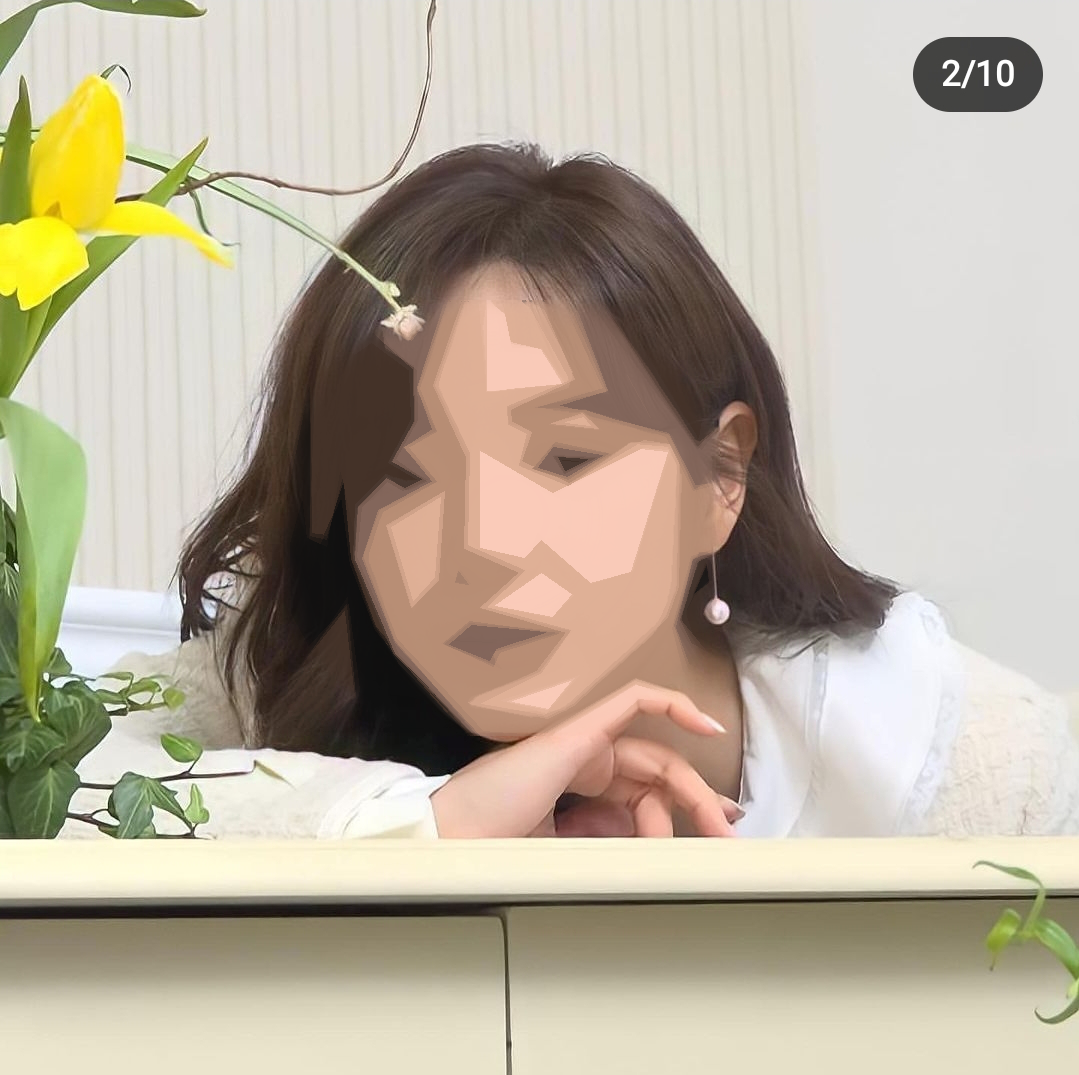
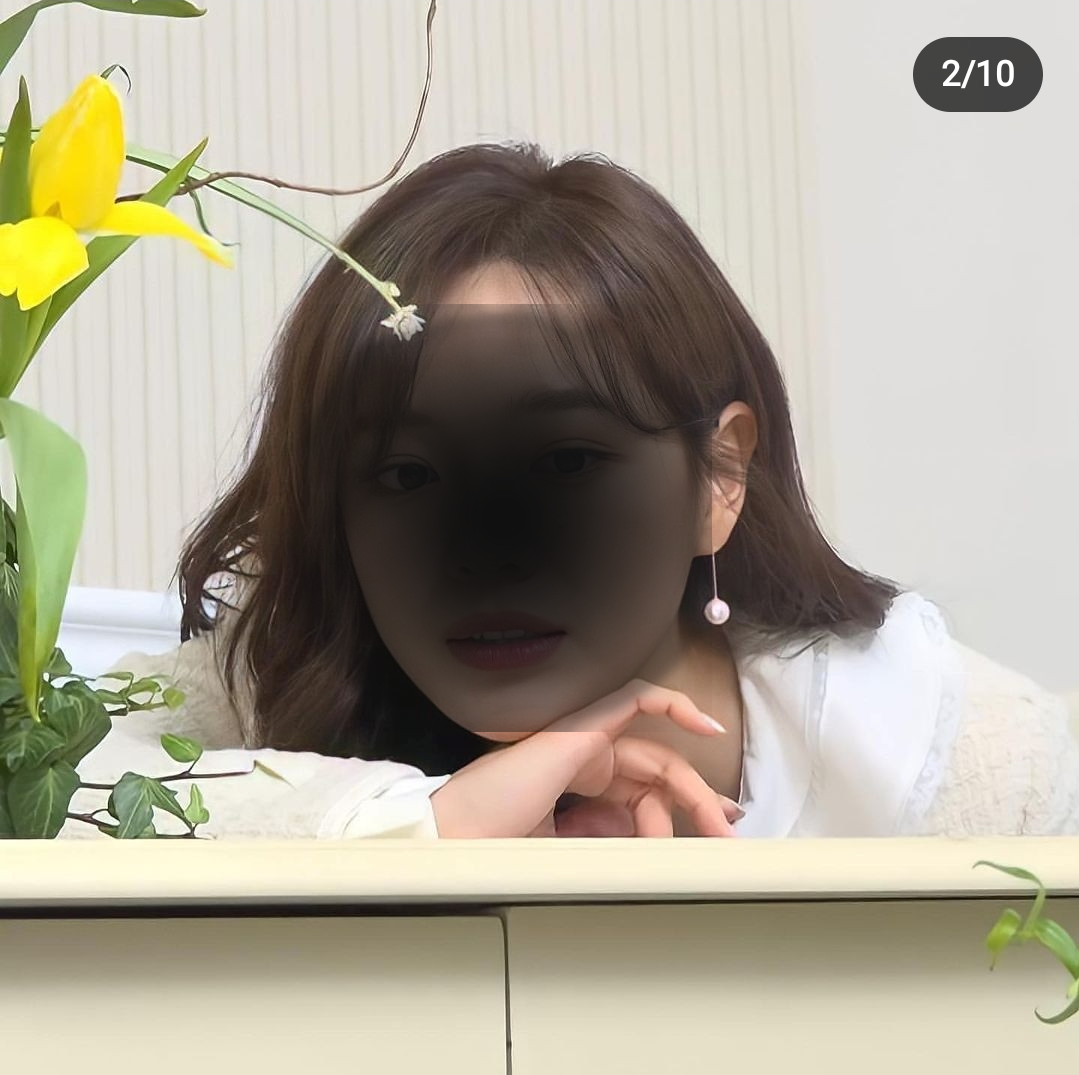
Created desktop application

Changed region(s): [[0.2753, 0.2763, 0.6728, 0.706]]

diff --git a/python_experiments/process_image.py b/python_experiments/process_image.py
@@ -23,9 +23,9 @@ class ImageFilter:
         self.poly_epsilon = poly_epsilon
         self.mask = cv2.imread(mask)
         self.processed_image = None
-        self.thres=thresh
+        self.threshold_factor=thresh
         self.vector_area = np.vectorize(self.area,signature='(n)->()')
-
+        
     def area(self,bb):
         return bb[2]*bb[3]
     
@@ -112,10 +112,9 @@ class ImageFilter:
         images = self.processed_image.copy()
         # show(im)
         faces,images = self.__get_crops(images)
-        threshold= np.max(self.vector_area(faces))/self.thres
+        threshold= np.max(self.vector_area(faces))/self.threshold_factor
         print("Threshold=",threshold)
         for i in tqdm(range(len(images))):
-            print("Area:",faces[i][2]*faces[i][3])
             if(faces[i][2]*faces[i][3] <= threshold):
                 im = images[i]
                 #Blurring
@@ -140,14 +139,13 @@ class ImageFilter:
                 self.processed_image = self.__smooth_blend(canvas,self.processed_image, faces[i])
 
     def process_image_array(self,image):
-        self.processed_image = image
-        images = self.processed_image.copy()
+        outImage = image.copy()
+        images = outImage.copy()
         # show(im)
         faces,images = self.__get_crops(images)
-        threshold= np.max(self.vector_area(faces))/self.thres
+        threshold= np.max(self.vector_area(faces))/self.threshold_factor
         print("Threshold=",threshold)
         for i in tqdm(range(len(images))):
-            print("Area:",faces[i][2]*faces[i][3])
             if(faces[i][2]*faces[i][3] <= threshold):
                 im = images[i]
                 #Blurring
@@ -169,9 +167,10 @@ class ImageFilter:
                     cv2.drawContours(canvas, [approx], -1, rep, -1)
                 
                 canvas = self.__black_inpaint(canvas)
-                self.processed_image = self.__smooth_blend(canvas,self.processed_image, faces[i])
-        return self.processed_image
+                outImage = self.__smooth_blend(canvas,outImage, faces[i])
+        return outImage
 
 if __name__ == "__main__":
     image_fitler = ImageFilter()
     image_fitler.process_image("./original.png")
+    image_fitler.show()

diff --git a/python_experiments/ui_qt.py b/python_experiments/ui_qt.py
@@ -48,7 +48,7 @@ class Ui(QtWidgets.QMainWindow):
         self.sliders = {} 
         self.slider_labels = {} 
         i =0 
-        ranges = {"n_clusters":(1,20,1),'min_area':(5,200,5),'poly_epsilon':(1,25,1),'threshold_factor':(1,7,1)}
+        ranges = {"n_clusters":(1,20,1),'min_area':(5,500,5),'poly_epsilon':(1,25,1),'threshold_factor':(1,7,1)}
         for label in ['n_clusters','min_area','poly_epsilon','threshold_factor']:
             temp_label = QLabel(label)
             self.slider_labels[label] = QLabel('{}'.format(ranges[label][0]))
@@ -63,10 +63,22 @@ class Ui(QtWidgets.QMainWindow):
         del i
         del temp_label
         del ranges
+        
+        
+        self.sliders['n_clusters'].setValue(self.image_filter.n_clusters)
+        self.slider_labels['n_clusters'].setNum(self.image_filter.n_clusters)
         self.sliders['n_clusters'].valueChanged.connect(self.update_clusers)
-        self.image_filter.n_clusters=self.sliders['n_clusters'].value()
+
+        self.sliders['min_area'].setValue(self.image_filter.min_area)
+        self.slider_labels['min_area'].setNum(self.image_filter.min_area)
         self.sliders['min_area'].valueChanged.connect(self.update_min_area)
+        
+        self.sliders['poly_epsilon'].setValue(self.image_filter.poly_epsilon)
+        self.slider_labels['poly_epsilon'].setNum(self.image_filter.poly_epsilon)
         self.sliders['poly_epsilon'].valueChanged.connect(self.update_poly_epsilon)
+
+        self.sliders['threshold_factor'].setValue(self.image_filter.threshold_factor)
+        self.slider_labels['threshold_factor'].setNum(self.image_filter.threshold_factor)
         self.sliders['threshold_factor'].valueChanged.connect(self.update_threshold_factor)
 
         slider_box.setSpacing(50)
